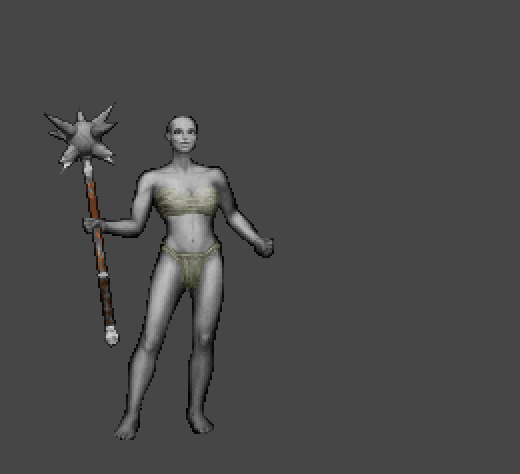
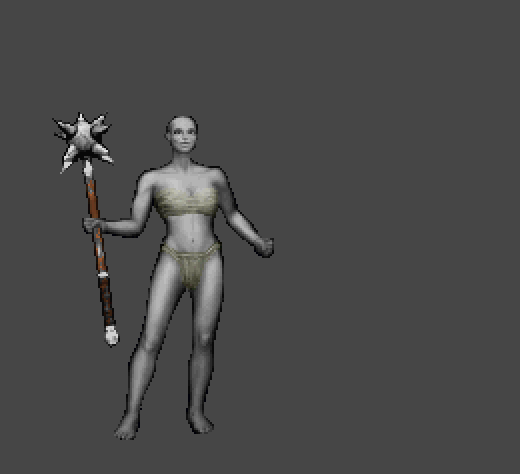
UOModel3D: mace2h paperdoll: 6x supersampling, shorter spikes (0.7), stronger metal shading so the spikes read, large 4x weapon-only versions (gump_*_hd.png)
Claude-Session: https://claude.ai/code/session_01CzhEnGTatDmwff3sx4yBA7

Changed region(s): [[0.0923, 0.2363, 0.2154, 0.384], [0.1846, 0.5612, 0.2154, 0.5907]]

diff --git a/pipeline/uo_render_mace2h_gump.py b/pipeline/uo_render_mace2h_gump.py
@@ -28,6 +28,11 @@ BUTT_ABOVE = 0.12            # m: the butt of the 'down' gump sticks out over th
 KNOB = 0.09                  # m: the knob at the butt keeps its length when the shaft is stretched
 BALL_FLOOR = 0.0             # m: the lowest tip of the ball above the floor line of the 'down' gump
 THIN_HAFT = 0.75             # the haft's cross-section scaled about the axis (the animation needs a thick haft: 7.5 cm = 2.7 px at 36 px/m, the gump is 2.5 x larger: 6.8 px; the client's maces 3-5 px)
+SS_GUMP = 6                  # supersampling of the gump (the flail script: 3): rendered 6 x larger and averaged down, so that the shading of the spikes survives the reduction
+SPIKE_SCALE = 0.7            # gump / art: the spikes' length beyond the ball's surface x this (the animation's spikes are long to read at 36 px/m; at 90 px/m they are too big)
+METAL_CONTRAST = 1.9         # the metal (ball, spikes): the grey's deviation from its local 5 x 5 px mean x this, so that every spike shows a lit and a dark side
+METAL_LEVELS = (22.0, 100.0, 205.0)   # metal: output grey at the 10th / 50th / 90th percentile (the flail script: 48 / 105 / 165)
+HD_SCALE = 4                 # the large weapon-only gump (gump_*_hd.png): rendered at HD_SCALE x the gump's resolution, not quantized to the client's palette (0 = none)
 ART_STRETCH = 1.2            # art: the shaft x this (as HAFT_LEN of the flail art)
 HOLD_CUT = (8, 9, 6)         # as uo_render_weapon_gump.py: the window of the fist around the grip, the wood is cut where the body gump's fist lies in it
 HOLD_SHOW = {"male": 2, "female": 3}
@@ -65,6 +70,24 @@ def pose(V, butt, hd, s_grip, d_w):
     return (V - G) @ R.T
 
 
+def shade_metal(img, pp):
+    """the metal's grey: the deviation from its 5 x 5 local mean x METAL_CONTRAST (a lit and a dark side on every spike); the haft's wood and the dark rim are left as they are"""
+    m = (pp == 2) & (img[..., 3] > 0)
+    if METAL_CONTRAST == 1.0 or m.sum() < 10:
+        return img
+    y = img[..., 0].astype(np.float32); w = m.astype(np.float32)
+    k = 2; pad_y = np.pad(y * w, k); pad_w = np.pad(w, k)
+    sy = sum(pad_y[i:i + y.shape[0], j:j + y.shape[1]] for i in range(2 * k + 1) for j in range(2 * k + 1))
+    sw = sum(pad_w[i:i + y.shape[0], j:j + y.shape[1]] for i in range(2 * k + 1) for j in range(2 * k + 1))
+    mean = sy / np.maximum(sw, 1e-6)
+    out = np.clip(mean + METAL_CONTRAST * (y - mean), 10, 230)
+    q = ((np.round(out).astype(np.int32)) >> 3) << 3
+    res = img.copy()
+    for c in range(3):
+        res[..., c] = np.where(m, np.clip(q, 8, 255), res[..., c])
+    return res
+
+
 def main(src, out):
     bpy.ops.wm.open_mainfile(filepath=src)
     sc = bpy.context.scene
@@ -86,10 +109,16 @@ def main(src, out):
     ob.parent = None; ob.matrix_world = Matrix.Identity(4)
     rad_v = (V - butt) - np.outer(s, hd)
     V = np.where((s < bb - 0.005)[:, None], butt + np.outer(s, hd) + rad_v * THIN_HAFT, V)
+    if head is not None and SPIKE_SCALE != 1.0:                                  # the spikes shorter: the ball's vertices beyond its radius pulled towards its centre
+        cb = butt + hd * float(head[0]); rb = float(head[1])
+        dv = V - cb; dist = np.linalg.norm(dv, axis=1)
+        msk = (s >= bb - 0.005) & (dist > rb)
+        V[msk] = cb + dv[msk] / dist[msk, None] * (rb + (dist[msk] - rb) * SPIKE_SCALE)[:, None]
     part = np.where(s < bb - 0.005, 0, 2).astype(np.int32)                      # 0 = the haft (wood), 2 = the ball and the spikes (metal)
     at = ob.data.attributes.get("uo_flail_part") or ob.data.attributes.new("uo_flail_part", "FLOAT", "POINT")
     at.data.foreach_set("value", part.astype(np.float32))
     print("MG: weapon %.3f m, ball from %.3f m (butt = 0), axis %s" % (s.max(), bb, np.round(hd, 3).tolist()))
+    W.SS = SS_GUMP; W.LEVELS = METAL_LEVELS
     cam = W.setup_render(sc)
     from PIL import Image
     os.makedirs(out, exist_ok=True); tmp = os.path.join(out, "_tmp.png")
@@ -103,6 +132,7 @@ def main(src, out):
         a = W.box_down(W.render(sc, cam, tmp, W.GW * W.SS, W.GH * W.SS, W.PXM * W.SS, cx, cz, False), W.SS)
         pp = W.part_pass(sc, cam, ob, tmp, W.GW * W.SS, W.GH * W.SS, W.PXM * W.SS, cx, cz, False)
         img = W.tone(a, W.LEVELS, pp, W.WOOD_LEVELS)
+        img = shade_metal(img, pp)
         try:
             bodyg = ga.read_gump(W.CLIENT, W.BODY[gender])
         except OSError:
@@ -121,6 +151,12 @@ def main(src, out):
             bg = Image.new("RGBA", prev.size, (70, 70, 70, 255)); bg.alpha_composite(prev)
             bg.resize((bg.width * 2, bg.height * 2), Image.NEAREST).save(os.path.join(out, "%s_preview.png" % name))
         Image.fromarray(img).save(os.path.join(out, name + ".png"))
+        if HD_SCALE:                                                          # the large weapon-only picture (no body gump: the fist is not cut)
+            ss0, k = W.SS, HD_SCALE; W.SS = 2
+            a2 = W.box_down(W.render(sc, cam, tmp, W.GW * k * 2, W.GH * k * 2, W.PXM * k * 2, cx, cz, False), 2)
+            pp2 = W.part_pass(sc, cam, ob, tmp, W.GW * k * 2, W.GH * k * 2, W.PXM * k * 2, cx, cz, False)
+            Image.fromarray(shade_metal(W.tone(a2, W.LEVELS, pp2, W.WOOD_LEVELS, 0.6), pp2)).save(os.path.join(out, name + "_hd.png"))
+            W.SS = ss0
         data, extra = ga.encode_gump(img)
         open(os.path.join(out, name + ".bin"), "wb").write(data)
         ys, xs = np.nonzero(img[..., 3]); print("MG %s: bbox x %d..%d y %d..%d, %d px, extra %08x" % (name, xs.min(), xs.max(), ys.min(), ys.max(), len(xs), extra))

diff --git a/model/items/mace2h/README.md b/model/items/mace2h/README.md
@@ -26,3 +26,5 @@ What the recipe does (every setting is described in the header of `pipeline/uo_m
 - **Version 2, Run Armed (3):** the frames of action 3 in `Mace2H_staff.vd` are those of version 1 (`Mace2H.vd`), by the user's decision; the recipe `mace2h_staff.json` leaves 3 out of `uo_staff_actions`, so a re-render gives the same. The options tried on it and kept in `render_uo_layer.py`: `uo_staff_tune` {"3": {"slide": 0.15, "lean": 7, "hand": 1}} (grip slid along the axis towards the ball, the ball turned further out, the grip put on the hand seen on the sprite when within `hand_r` of our fist; 15 deg of lean took away the staff's own lean), per-action `uo_action_hide` (hands only) and `uo_grip_cut_orig` / `uo_grip_cut_only`.
 
 - **Paperdoll gumps and art (`paperdoll/`, `pipeline/uo_render_mace2h_gump.py`):** gump 260 x 237 for the male (body gump 12) and the female (13) body, each in two variants: `down` = the ball DOWN resting on the floor at the height of the feet (the lowest spike at y 220), the haft upright leaning 4 deg out, the butt 0.17 m over the fist; `up` = the ball UP, the fist at the middle of the whole weapon (grip 0.67 m above the butt), the haft leaning 8 deg out, the ball at head height. The wood under the body gump's fist is cut out so the fist holds it; `*_preview.png` = the gump over the client's body gump. Art (backpack icon, art.mul): `art.png` 47 x 44 px, the weapon lying on the ground seen from above (haft along the diagonal), `art_mirror.png` its mirror; `.bin` = the mul entries. Needs the client's Gumpart.mul / Gumpidx.mul (not in the repo).
+
+- **Paperdoll, second pass:** rendered 6 x supersampled (was 3), the spikes 30% shorter on the gump and art (`SPIKE_SCALE` 0.7: at 90 px/m the animation's long spikes were too big), the metal's contrast raised (`METAL_CONTRAST` 1.9 over its local 5 x 5 mean, `METAL_LEVELS` 22 / 100 / 205) so that every spike has a lit and a dark side; `gump_*_hd.png` = the weapon alone rendered at 4 x the gump's resolution (1040 x 948, not quantized to the client's palette, for reference or a larger gump).
